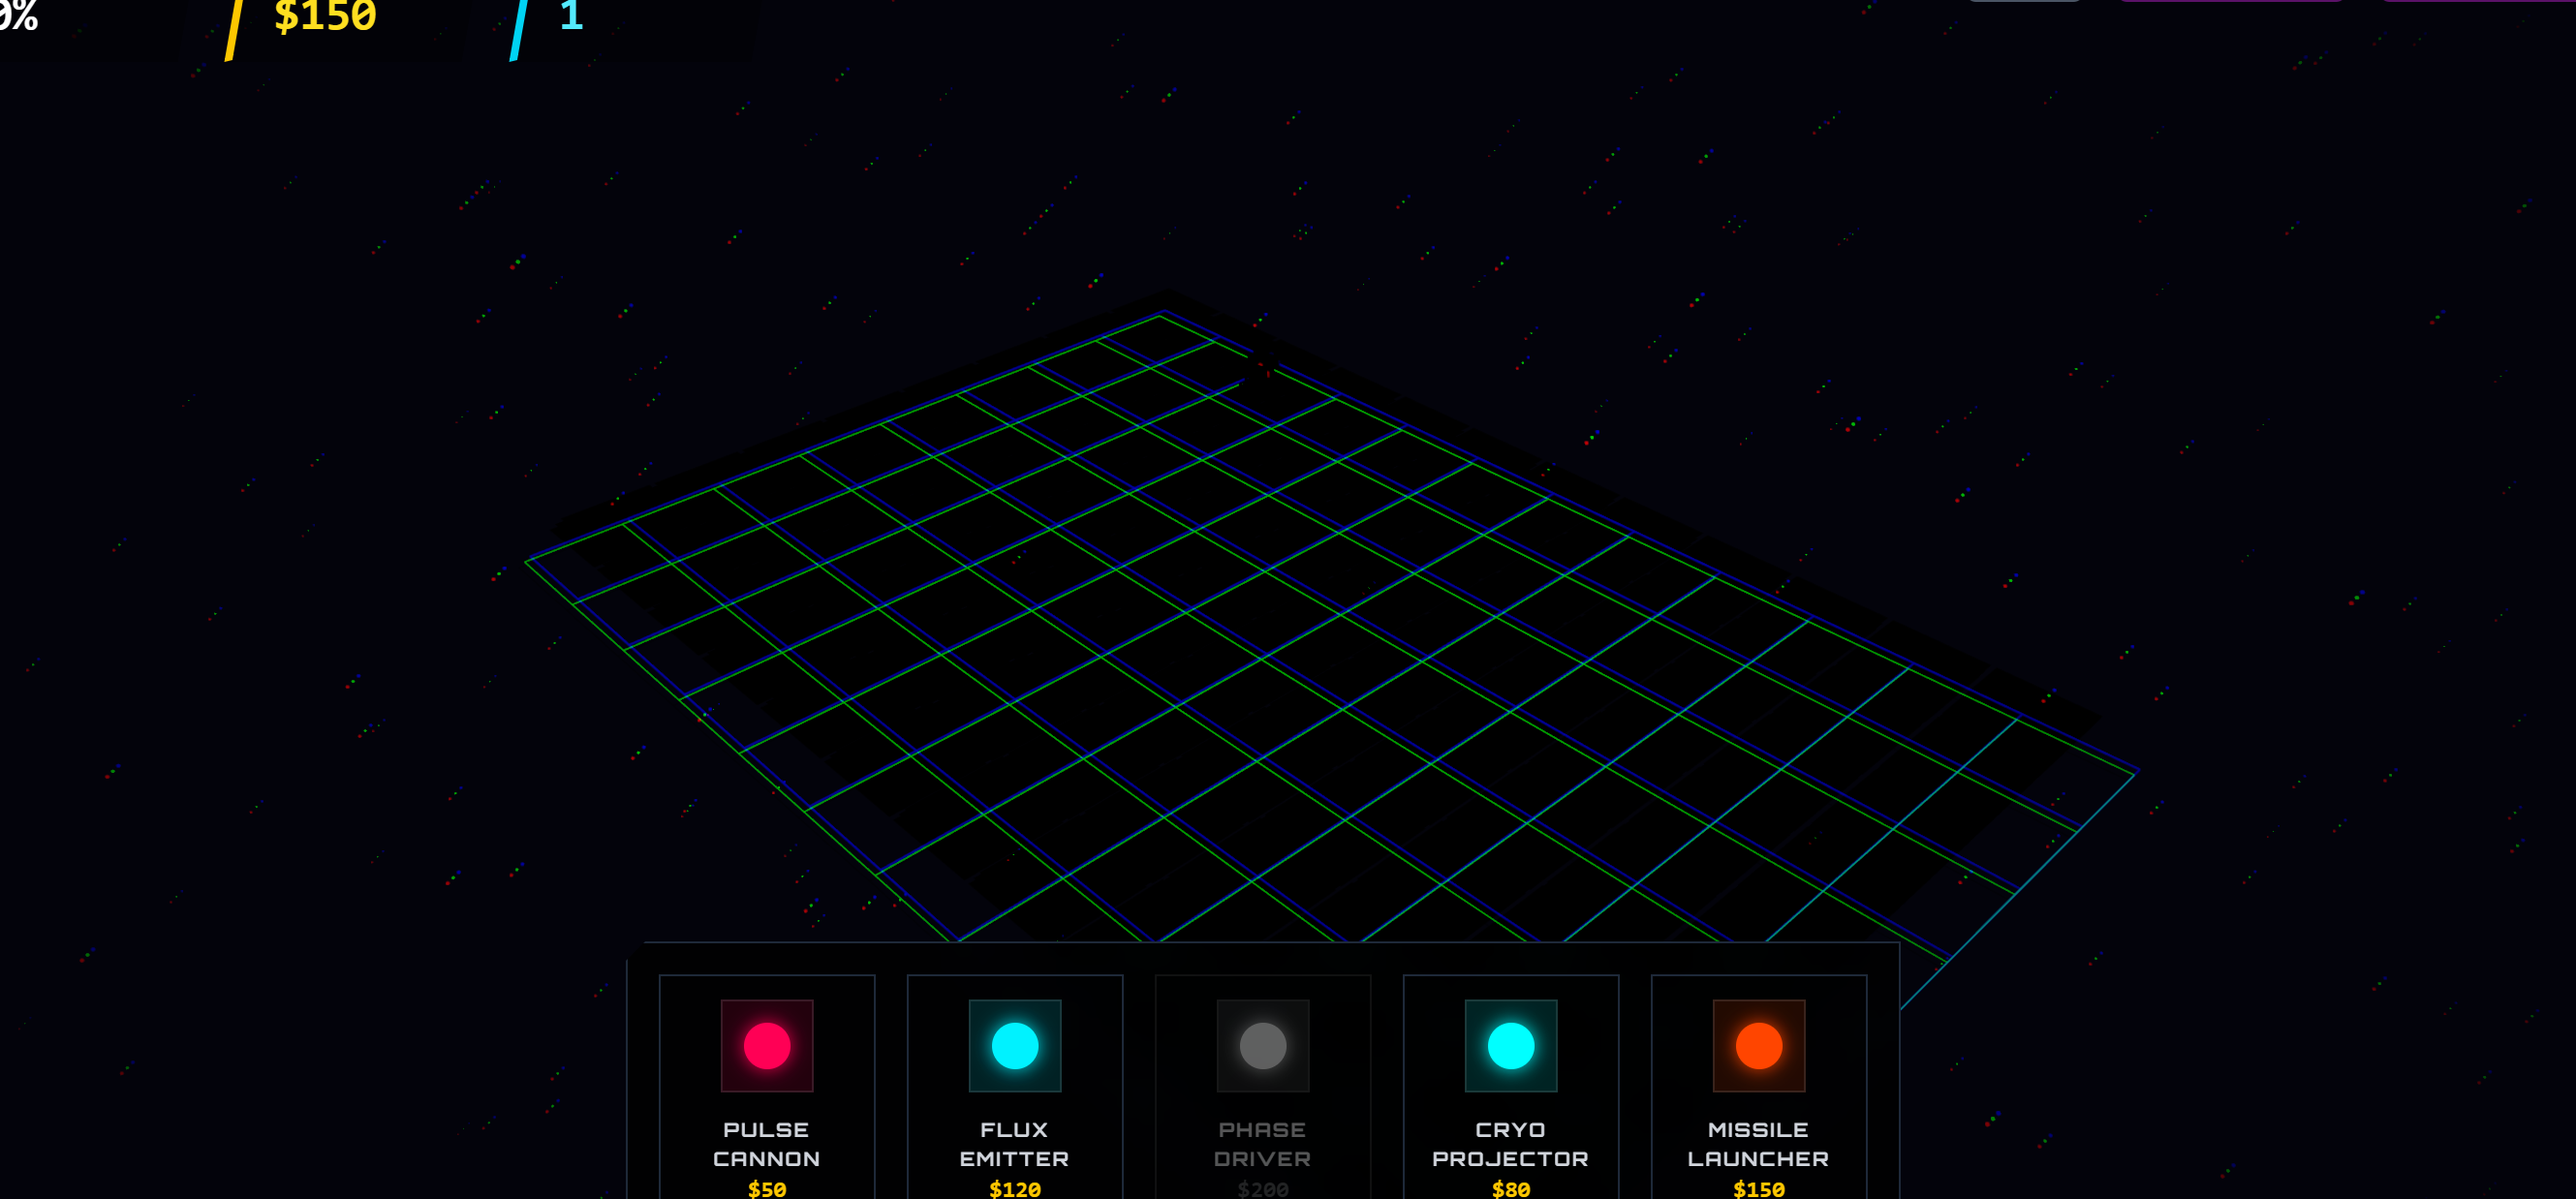
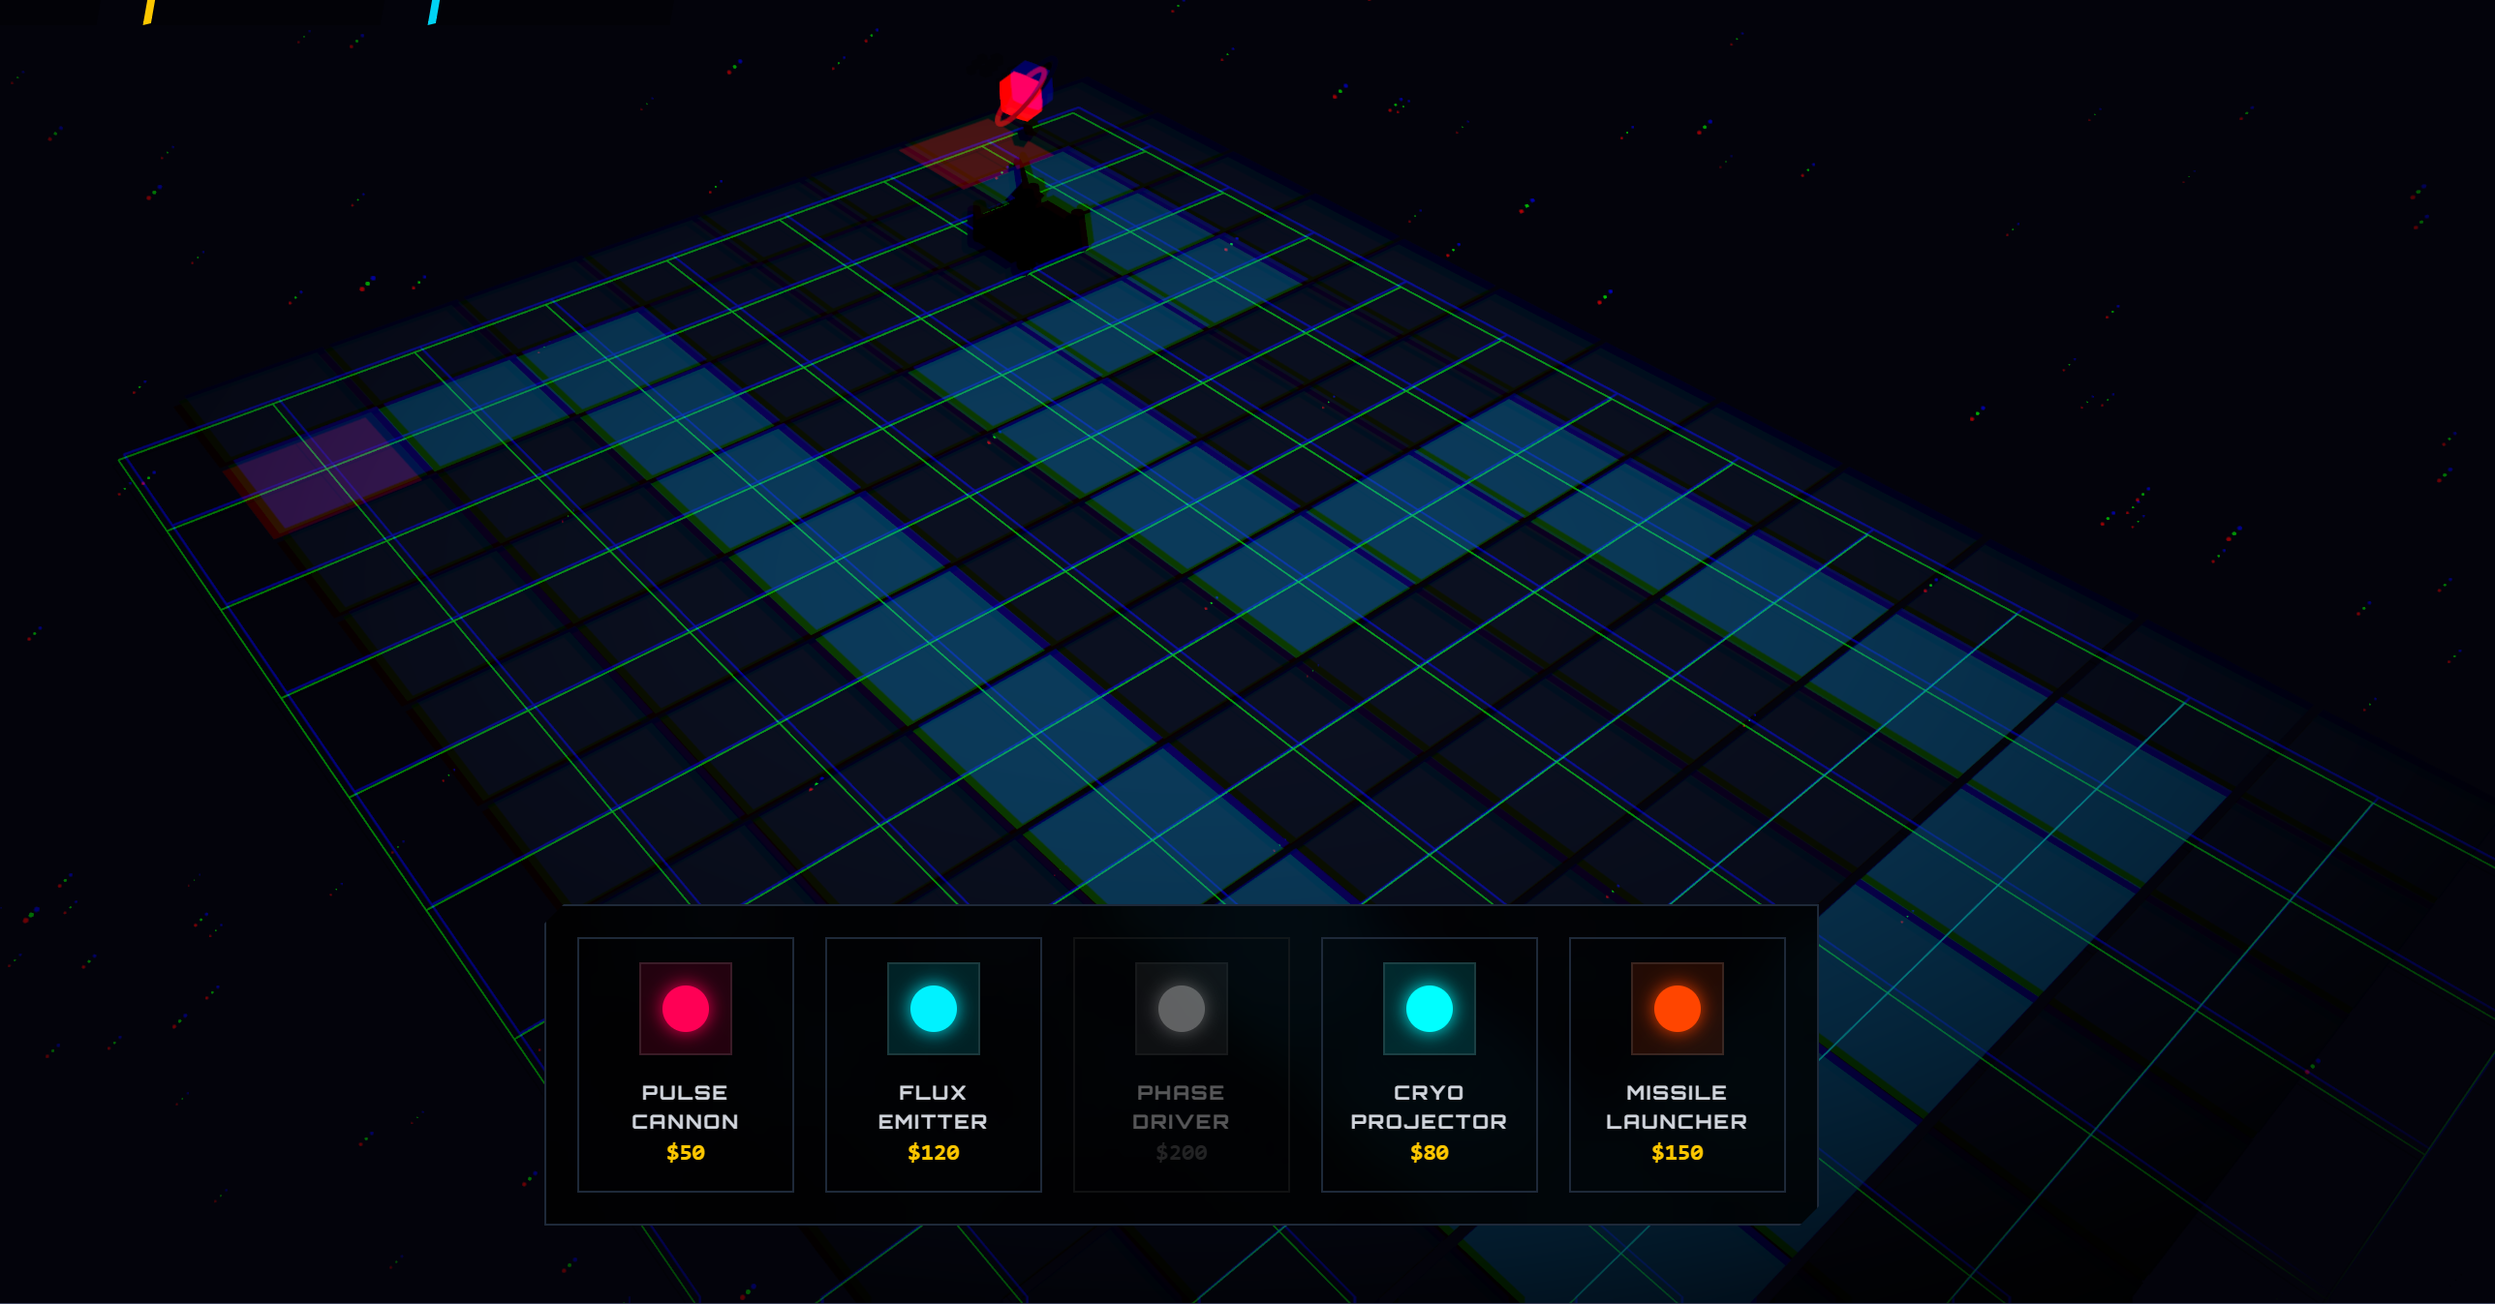
refactor: Update materials and improve instance management for Enemies, Towers, Projectiles, and World components

diff --git a/src/game/components/World.tsx b/src/game/components/World.tsx
@@ -6,16 +6,16 @@ import { TILE_SIZE, MAP_WIDTH, MAP_HEIGHT } from '../../constants';
 import { TileType } from '../../types';
 import { useWorld } from '../GameState';
 
-import { ensureInstanceColor } from './instancing/instancedUtils';
+type Tile = { x: number; z: number; type: TileType };
 
 const TILE_GEOMETRY = new THREE.PlaneGeometry(TILE_SIZE * 0.95, TILE_SIZE * 0.95);
 const TILE_ROTATION = new THREE.Euler(-Math.PI / 2, 0, 0);
 
-const getTileBaseColor = (type: TileType) => {
-  if (type === TileType.Path) return '#0b3a5a';
-  if (type === TileType.Spawn) return '#5a1b1b';
-  if (type === TileType.Base) return '#3b1b5a';
-  return '#0b1020';
+const TILE_COLORS: Record<TileType, string> = {
+  [TileType.Grass]: '#0b1020',
+  [TileType.Path]: '#0b3a5a',
+  [TileType.Spawn]: '#5a1b1b',
+  [TileType.Base]: '#3b1b5a',
 };
 
 const createGridGeometry = (width: number, height: number, tileSize: number) => {
@@ -48,28 +48,44 @@ export const World = React.memo(() => {
     setSelectedEntityId,
     renderStateRef,
   } = useWorld();
-  const meshRef = useRef<THREE.InstancedMesh>(null);
+  const grassMeshRef = useRef<THREE.InstancedMesh>(null);
+  const pathMeshRef = useRef<THREE.InstancedMesh>(null);
+  const spawnMeshRef = useRef<THREE.InstancedMesh>(null);
+  const baseMeshRef = useRef<THREE.InstancedMesh>(null);
+  const hoverMeshRef = useRef<THREE.Mesh>(null);
   const dummy = useMemo(() => new THREE.Object3D(), []);
-  const hoveredIdRef = useRef<number | null>(null);
   const hoverValidColor = useMemo(() => new THREE.Color('#00ff00'), []);
   const hoverInvalidColor = useMemo(() => new THREE.Color('#ff0000'), []);
 
-  const tiles = useMemo(
-    () =>
-      mapGrid.flatMap((row, z) =>
-        row.map((type, x) => ({
-          x,
-          z,
-          type,
-        })),
-      ),
-    [mapGrid],
-  );
+  const tilesByType = useMemo(() => {
+    const grass: Tile[] = [];
+    const path: Tile[] = [];
+    const spawn: Tile[] = [];
+    const base: Tile[] = [];
 
-  const baseColors = useMemo(
-    () => tiles.map((tile) => new THREE.Color(getTileBaseColor(tile.type))),
-    [tiles],
-  );
+    mapGrid.forEach((row, z) => {
+      row.forEach((type, x) => {
+        const tile = { x, z, type };
+        switch (type) {
+          case TileType.Path:
+            path.push(tile);
+            break;
+          case TileType.Spawn:
+            spawn.push(tile);
+            break;
+          case TileType.Base:
+            base.push(tile);
+            break;
+          case TileType.Grass:
+          default:
+            grass.push(tile);
+            break;
+        }
+      });
+    });
+
+    return { grass, path, spawn, base };
+  }, [mapGrid]);
 
   const gridGeometry = useMemo(
     () => createGridGeometry(mapGrid[0].length, mapGrid.length, TILE_SIZE),
@@ -78,86 +94,68 @@ export const World = React.memo(() => {
 
   useEffect(() => () => gridGeometry.dispose(), [gridGeometry]);
 
-  const setInstanceColor = useCallback((index: number, color: THREE.Color) => {
-    if (!meshRef.current) return;
-    meshRef.current.setColorAt(index, color);
-    if (meshRef.current.instanceColor) {
-      meshRef.current.instanceColor.needsUpdate = true;
-    }
-  }, []);
-
-  const resetHover = useCallback(() => {
-    if (hoveredIdRef.current === null) return;
-    setInstanceColor(hoveredIdRef.current, baseColors[hoveredIdRef.current]);
-    hoveredIdRef.current = null;
-  }, [baseColors, setInstanceColor]);
-
-  const applyHover = useCallback(
-    (index: number) => {
-      const tile = tiles[index];
-      if (!tile) return;
-      if (selectedTower && tile.type === TileType.Grass && gameStatus === 'playing') {
-        const valid = isValidPlacement(tile.x, tile.z);
-        setInstanceColor(index, valid ? hoverValidColor : hoverInvalidColor);
-        return;
+  const syncInstances = useCallback(
+    (mesh: THREE.InstancedMesh | null, tiles: Tile[]) => {
+      if (!mesh) return;
+      mesh.count = tiles.length;
+      for (let i = 0; i < tiles.length; i += 1) {
+        const tile = tiles[i];
+        dummy.position.set(tile.x * TILE_SIZE, 0, tile.z * TILE_SIZE);
+        dummy.rotation.copy(TILE_ROTATION);
+        dummy.updateMatrix();
+        mesh.setMatrixAt(i, dummy.matrix);
       }
-      setInstanceColor(index, baseColors[index]);
+      mesh.instanceMatrix.needsUpdate = true;
     },
-    [
-      baseColors,
-      gameStatus,
-      hoverInvalidColor,
-      hoverValidColor,
-      isValidPlacement,
-      selectedTower,
-      setInstanceColor,
-      tiles,
-    ],
+    [dummy],
   );
 
   useLayoutEffect(() => {
-    if (!meshRef.current) return;
-    meshRef.current.count = tiles.length;
-    ensureInstanceColor(meshRef.current, tiles.length);
+    syncInstances(grassMeshRef.current, tilesByType.grass);
+    syncInstances(pathMeshRef.current, tilesByType.path);
+    syncInstances(spawnMeshRef.current, tilesByType.spawn);
+    syncInstances(baseMeshRef.current, tilesByType.base);
+  }, [syncInstances, tilesByType]);
 
-    for (let i = 0; i < tiles.length; i += 1) {
-      const tile = tiles[i];
-      dummy.position.set(tile.x * TILE_SIZE, 0, tile.z * TILE_SIZE);
-      dummy.rotation.copy(TILE_ROTATION);
-      dummy.updateMatrix();
-      meshRef.current.setMatrixAt(i, dummy.matrix);
-      meshRef.current.setColorAt(i, baseColors[i]);
+  const hideHover = useCallback(() => {
+    if (hoverMeshRef.current) {
+      hoverMeshRef.current.visible = false;
     }
+  }, []);
 
-    meshRef.current.instanceMatrix.needsUpdate = true;
-    if (meshRef.current.instanceColor) {
-      meshRef.current.instanceColor.needsUpdate = true;
-    }
-  }, [baseColors, dummy, tiles]);
-
-  useEffect(() => {
-    if (hoveredIdRef.current === null) return;
-    applyHover(hoveredIdRef.current);
-  }, [applyHover]);
+  const showHover = useCallback(
+    (tile: Tile, valid: boolean) => {
+      if (!hoverMeshRef.current) return;
+      hoverMeshRef.current.visible = true;
+      hoverMeshRef.current.position.set(tile.x * TILE_SIZE, 0.01, tile.z * TILE_SIZE);
+      const material = hoverMeshRef.current.material as THREE.MeshBasicMaterial;
+      material.color.copy(valid ? hoverValidColor : hoverInvalidColor);
+    },
+    [hoverInvalidColor, hoverValidColor],
+  );
 
   const handlePointerMove = useCallback(
-    (event: ThreeEvent<PointerEvent>) => {
+    (tiles: Tile[]) => (event: ThreeEvent<PointerEvent>) => {
       const instanceId = event.instanceId;
       if (instanceId === undefined) return;
-      if (hoveredIdRef.current === instanceId) return;
-      resetHover();
-      hoveredIdRef.current = instanceId;
-      applyHover(instanceId);
+      const tile = tiles[instanceId];
+      if (!tile) return;
+      if (selectedTower && tile.type === TileType.Grass && gameStatus === 'playing') {
+        const valid = isValidPlacement(tile.x, tile.z);
+        showHover(tile, valid);
+        return;
+      }
+      hideHover();
     },
-    [applyHover, resetHover],
+    [gameStatus, hideHover, isValidPlacement, selectedTower, showHover],
   );
 
   const handlePointerOut = useCallback(() => {
-    resetHover();
-  }, [resetHover]);
+    hideHover();
+  }, [hideHover]);
 
   const handlePointerDown = useCallback(
-    (event: ThreeEvent<PointerEvent>) => {
+    (tiles: Tile[]) => (event: ThreeEvent<PointerEvent>) => {
       const instanceId = event.instanceId;
       if (instanceId === undefined) return;
       const tile = tiles[instanceId];
@@ -178,7 +176,7 @@ export const World = React.memo(() => {
         setSelectedEntityId(null);
       }
     },
-    [gameStatus, placeTower, renderStateRef, selectedTower, setSelectedEntityId, tiles],
+    [gameStatus, placeTower, renderStateRef, selectedTower, setSelectedEntityId],
   );
 
   return (
@@ -190,14 +188,49 @@ export const World = React.memo(() => {
       ]}
     >
       <instancedMesh
-        ref={meshRef}
-        args={[TILE_GEOMETRY, undefined, tiles.length]}
-        onPointerMove={handlePointerMove}
+        ref={grassMeshRef}
+        args={[TILE_GEOMETRY, undefined, tilesByType.grass.length]}
+        onPointerMove={handlePointerMove(tilesByType.grass)}
         onPointerOut={handlePointerOut}
-        onPointerDown={handlePointerDown}
+        onPointerDown={handlePointerDown(tilesByType.grass)}
       >
-        <meshBasicMaterial vertexColors toneMapped={false} />
+        <meshBasicMaterial color={TILE_COLORS[TileType.Grass]} toneMapped={false} />
       </instancedMesh>
+
+      <instancedMesh
+        ref={pathMeshRef}
+        args={[TILE_GEOMETRY, undefined, tilesByType.path.length]}
+        onPointerMove={handlePointerMove(tilesByType.path)}
+        onPointerOut={handlePointerOut}
+        onPointerDown={handlePointerDown(tilesByType.path)}
+      >
+        <meshBasicMaterial color={TILE_COLORS[TileType.Path]} toneMapped={false} />
+      </instancedMesh>
+
+      <instancedMesh
+        ref={spawnMeshRef}
+        args={[TILE_GEOMETRY, undefined, tilesByType.spawn.length]}
+        onPointerMove={handlePointerMove(tilesByType.spawn)}
+        onPointerOut={handlePointerOut}
+        onPointerDown={handlePointerDown(tilesByType.spawn)}
+      >
+        <meshBasicMaterial color={TILE_COLORS[TileType.Spawn]} toneMapped={false} />
+      </instancedMesh>
+
+      <instancedMesh
+        ref={baseMeshRef}
+        args={[TILE_GEOMETRY, undefined, tilesByType.base.length]}
+        onPointerMove={handlePointerMove(tilesByType.base)}
+        onPointerOut={handlePointerOut}
+        onPointerDown={handlePointerDown(tilesByType.base)}
+      >
+        <meshBasicMaterial color={TILE_COLORS[TileType.Base]} toneMapped={false} />
+      </instancedMesh>
+
+      <mesh ref={hoverMeshRef} visible={false} position={[0, 0.01, 0]} rotation={[-Math.PI / 2, 0, 0]}>
+        <planeGeometry args={[TILE_SIZE * 0.95, TILE_SIZE * 0.95]} />
+        <meshBasicMaterial color={hoverValidColor} transparent opacity={0.35} toneMapped={false} />
+      </mesh>
 
       <lineSegments position={[0, 0.02, 0]} geometry={gridGeometry}>
         <lineBasicMaterial color="#00f2ff" opacity={0.4} transparent />

diff --git a/src/game/components/InstancedTowers.tsx b/src/game/components/InstancedTowers.tsx
@@ -1,6 +1,6 @@
 import type { ThreeEvent } from '@react-three/fiber';
 import { useFrame } from '@react-three/fiber';
-import React, { useEffect, useMemo, useRef, useState } from 'react';
+import React, { useEffect, useLayoutEffect, useMemo, useRef, useState } from 'react';
 import * as THREE from 'three';
 
 import { TOWER_CONFIGS } from '../../constants';
@@ -9,7 +9,7 @@ import { useGameUi, useRenderState } from '../GameState';
 import { getTowerStats } from '../utils';
 
 import { createComplexTowerBase } from './instancing/geometryUtils';
-import { TEMP_COLOR, ZERO_MATRIX } from './instancing/instancedUtils';
+import { ensureInstanceColor, TEMP_COLOR, ZERO_MATRIX } from './instancing/instancedUtils';
 
 export const InstancedTowers: React.FC = () => {
   const { setSelectedEntityId, selectedEntityId, gameState } = useGameUi();
@@ -21,6 +21,12 @@ export const InstancedTowers: React.FC = () => {
   const rangeMeshRef = useRef<THREE.InstancedMesh>(null);
   const dummy = useMemo(() => new THREE.Object3D(), []);
   const colorCache = useRef<Map<string, THREE.Color>>(new Map());
+
+  useLayoutEffect(() => {
+    if (baseMeshRef.current) ensureInstanceColor(baseMeshRef.current, 100);
+    if (turretMeshRef.current) ensureInstanceColor(turretMeshRef.current, 100);
+    if (ringMeshRef.current) ensureInstanceColor(ringMeshRef.current, 100);
+  }, []);
 
   useEffect(() => {
     const geo = createComplexTowerBase();
@@ -163,7 +169,7 @@ export const InstancedTowers: React.FC = () => {
         onPointerDown={handlePointerDown}
         frustumCulled={false}
       >
-        <meshLambertMaterial vertexColors />
+        <meshBasicMaterial vertexColors toneMapped={false} />
       </instancedMesh>
 
       <instancedMesh
@@ -173,7 +179,7 @@ export const InstancedTowers: React.FC = () => {
         frustumCulled={false}
       >
         <octahedronGeometry args={[0.5, 0]} />
-        <meshLambertMaterial vertexColors />
+        <meshBasicMaterial vertexColors toneMapped={false} />
       </instancedMesh>
 
       <instancedMesh
@@ -183,7 +189,7 @@ export const InstancedTowers: React.FC = () => {
         frustumCulled={false}
       >
         <torusGeometry args={[0.6, 0.05, 8, 32]} />
-        <meshLambertMaterial vertexColors />
+        <meshBasicMaterial vertexColors toneMapped={false} />
       </instancedMesh>
 
       <instancedMesh
@@ -198,3 +204,4 @@ export const InstancedTowers: React.FC = () => {
     </group>
   );
 };
+

diff --git a/src/game/components/Enemies.tsx b/src/game/components/Enemies.tsx
@@ -112,7 +112,7 @@ export const InstancedEnemies: React.FC = () => {
     <group>
       <instancedMesh ref={bodyMeshRef} args={[undefined, undefined, count]} frustumCulled={false}>
         <dodecahedronGeometry args={[1, 0]} />
-        <meshBasicMaterial vertexColors toneMapped={false} />
+        <meshBasicMaterial color="#ff0055" toneMapped={false} />
       </instancedMesh>
 
       <instancedMesh ref={shieldMeshRef} args={[undefined, undefined, count]} frustumCulled={false}>
@@ -128,8 +128,9 @@ export const InstancedEnemies: React.FC = () => {
 
       <instancedMesh ref={ringMeshRef} args={[undefined, undefined, count]} frustumCulled={false}>
         <torusGeometry args={[0.7, 0.05, 8, 32]} />
-        <meshBasicMaterial vertexColors toneMapped={false} />
+        <meshBasicMaterial color="#ff6699" toneMapped={false} />
       </instancedMesh>
     </group>
   );
 };
+

diff --git a/src/game/components/Projectiles.tsx b/src/game/components/Projectiles.tsx
@@ -53,8 +53,9 @@ export const InstancedProjectiles: React.FC = () => {
   return (
     <instancedMesh ref={meshRef} args={[undefined, undefined, count]} frustumCulled={false}>
       <icosahedronGeometry args={[0.5, 0]} />
-      <meshLambertMaterial vertexColors />
+      <meshBasicMaterial vertexColors toneMapped={false} />
     </instancedMesh>
   );
 };
+
 
